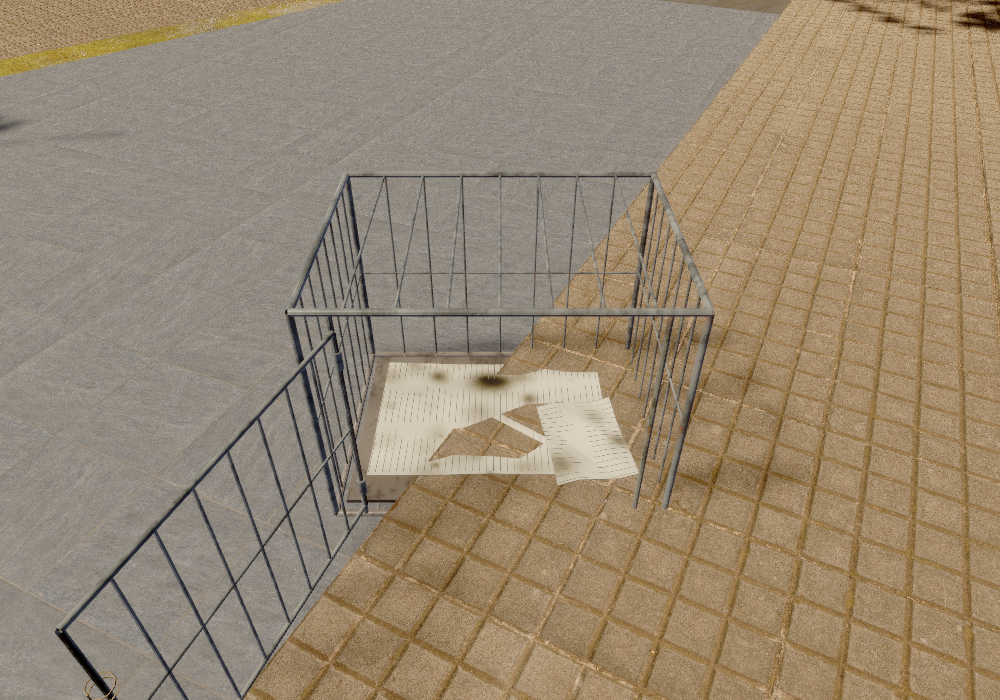
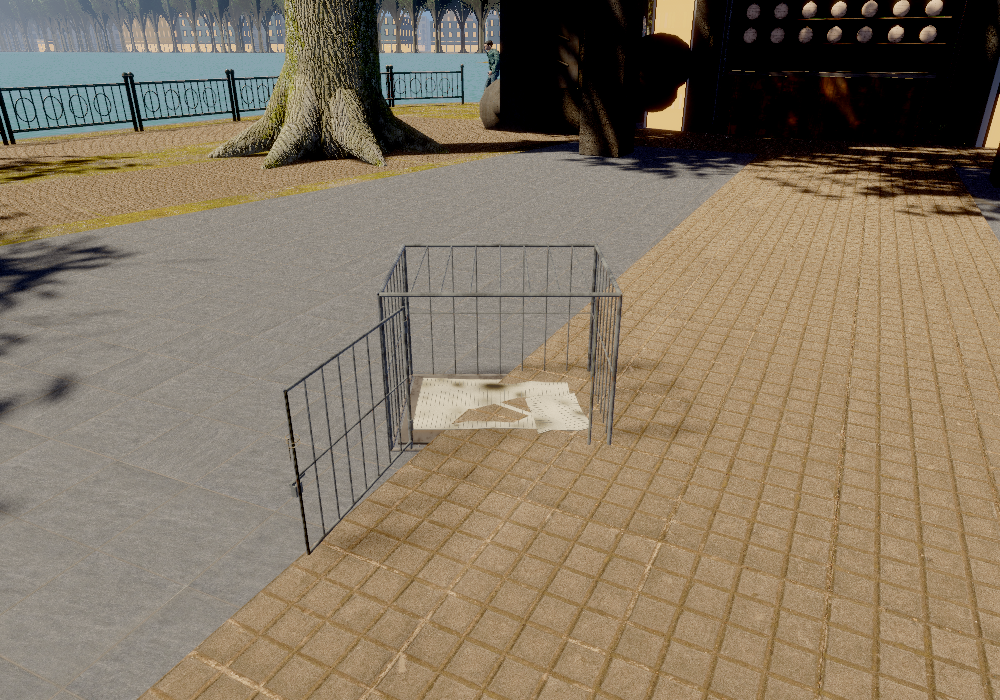
Frame the open cage door in review camera

diff --git a/examples/game-hanoi-city/src/main.rs b/examples/game-hanoi-city/src/main.rs
@@ -254,7 +254,10 @@ fn look_from_page(sites: &[hq::Site], facades: &facade::Facades, map: &Map) -> O
         // the side, 1.5 m away at eye height (how a player sees it when they reach it).
         "cage" => {
             let open = render::page_query("door") == "open";
-            let eye = shore - north * 1.3 + right * 0.75 + Vec3::Y * 1.5;
+            // The door swings towards this camera; back away for the open
+            // pose so its outer edge remains visible in the review frame.
+            let distance = if open { 1.8 } else { 1.0 };
+            let eye = shore - north * (1.3 * distance) + right * (0.75 * distance) + Vec3::Y * 1.5;
             Some(Look { eye, target: shore + Vec3::Y * 0.3, lineup: None, cage: Some((shore, open)), spawned: false })
         }
         _ => Some(Look {

diff --git a/examples/game-hanoi-city/review/08/README.md b/examples/game-hanoi-city/review/08/README.md
@@ -21,13 +21,12 @@ fresh WebGL build of this branch and the game's `look=cage` camera. The
 revised raw cage GLBs were served in place of the packaged cage; other game
 assets and the manifest came from an existing local web build. The cage GLB
 loaded successfully, and the game visibly rotates the door in the open view.
-The review camera crops part of the opened door, while the night flashlight
-overexposes portions of the bars. These captures do not establish LOD
+The camera backs away for the open pose so the full door stays in frame. The
+night flashlight overexposes portions of the bars. These captures do not establish LOD
 transitions, packaging behavior or final artistic approval.
 
 Both models retain a single material and the named `door_hinge` revolute joint
 with its 0–110° range. The measured LOD0/LOD1 triangle counts are 1,780/474,
 within the 2,000/500 budgets. glTF Validator reports no errors or warnings.
 The joint pose was also inspected in the Cycles render. Seam and LOD-transition
-checks, a full view of the open door in the game, and final visual approval
-remain outstanding.
+checks and final visual approval remain outstanding.
